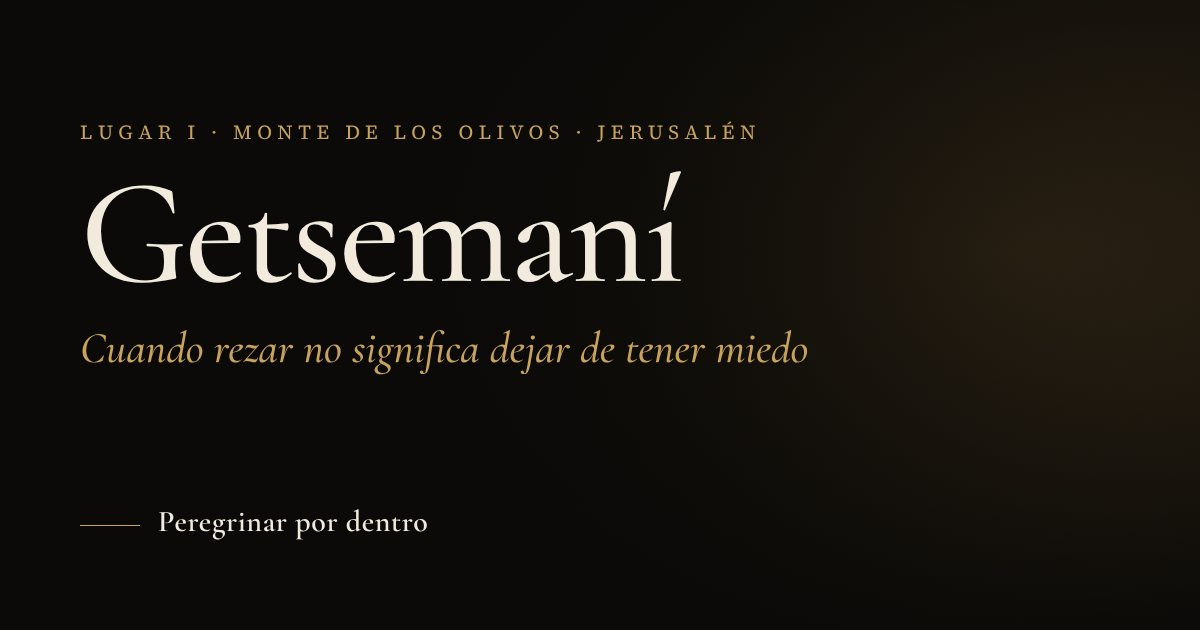
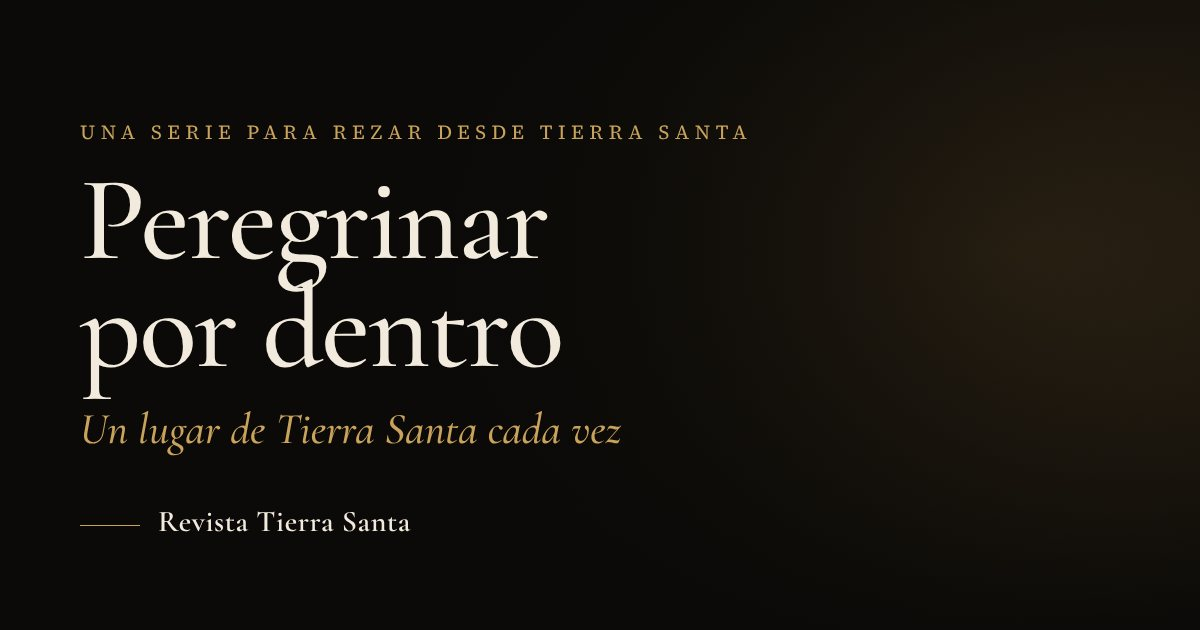
Add files via upload

diff --git a/lugares.js b/lugares.js
@@ -9,7 +9,8 @@
 //          (Google Maps u OpenStreetMap → clic derecho sobre el lugar → copiar las dos cifras).
 // cita:    referencia bíblica de cada apartado (sale en versalitas bajo el título).
 // IMÁGENES: van en img/<id>/ con estos nombres (los mismos que los audios):
-//            00 portada · 01…05 apartados · 06 frase final · 07 oración
+//            00 portada · 01, 02… un número por apartado · después, la frase final y la oración
+//            (Getsemaní, 5 apartados: 06 frase, 07 oración · Emaús, 6 apartados: 07 frase, 08 oración)
 //          00.webp (horizontal, 16:9) y, si quieres, 00-movil.webp (vertical, 9:16).
 // imagenes: (opcional) ajuste de cada imagen:
 //            foco   qué punto se mantiene a la vista al recortar y hacia dónde se acerca ('50% 50%' = centro)
@@ -95,5 +96,93 @@ window.LUGARES = [
 
 ¿Has rezado alguna vez y seguías preocupado?
 Te invito a leer esta breve reflexión desde el huerto de los Olivos.`
+  },
+  {
+    id: 'emaus',
+    numero: 2,
+    nombre: 'Emaús',
+    titulo: 'Cuando te cuesta reconocer que Dios camina contigo',
+    entradilla: 'Hay días en los que seguimos caminando, pero hemos perdido la ilusión.',
+    ubicacion: 'El Qubeibeh · Camino de Jerusalén',
+    coord: [31.8439, 35.1353],
+    secciones: [
+      {
+        id: 'ilusion',
+        cita: 'Lc 24,21',
+        parrafos: [
+          'Habías puesto mucho cariño en algo. Una relación, un proyecto, una tarea en la parroquia, una esperanza para tu familia. Pensabas que las cosas acabarían de otra manera.',
+          'Y ahora te sorprendes diciendo: «Yo esperaba…».',
+          'Así comienza también el camino interior de los discípulos de Emaús.'
+        ]
+      },
+      {
+        id: 'camino',
+        cita: 'Lc 24,13-35',
+        titulo: 'Un camino marcado por la decepción',
+        parrafos: [
+          'El Evangelio de Lucas cuenta que dos discípulos se alejaban de Jerusalén después de la muerte de Jesús. Mientras caminaban, hablaban de lo sucedido. Jesús se acercó y comenzó a caminar con ellos, pero no lo reconocieron.',
+          'Él les preguntó de qué hablaban. Y ellos pudieron expresar su tristeza y aquella esperanza que parecía haberse roto: habían esperado que Jesús liberara a Israel (Lc 24,13-35).',
+          'A veces, también nosotros miramos nuestra vida desde lo que no llegó a ser.'
+        ]
+      },
+      {
+        id: 'se-acerca',
+        cita: 'Lc 24,15-16',
+        titulo: 'Jesús se acerca antes de que lo reconozcan',
+        parrafos: [
+          'Hay un detalle que puede ayudarnos mucho: Jesús ya caminaba con ellos cuando todavía eran incapaces de reconocerlo.',
+          'Podemos contemplar esa escena cuando sentimos a Dios lejos. Nuestra dificultad para percibir su presencia no tiene por qué ser la última palabra sobre nuestra relación con él.',
+          'Hay etapas en las que rezamos sin entusiasmo, vamos a misa con el corazón cansado o seguimos ayudando a los demás sin encontrar consuelo. Podemos llevar también ese cansancio a la oración.',
+          'El camino de Emaús nos invita a dejar abierta una posibilidad: quizá todavía no hemos comprendido todo lo que está sucediendo.'
+        ]
+      },
+      {
+        id: 'escucha',
+        cita: 'Lc 24,17-27',
+        titulo: 'Dios también escucha nuestras decepciones',
+        parrafos: [
+          'Jesús deja que los discípulos cuenten lo que llevan dentro. Después les ayuda a comprender las Escrituras y a mirar su historia desde una luz nueva.',
+          'También nosotros necesitamos ese espacio para hablar con sinceridad.',
+          'Podemos decirle a Dios: «Yo esperaba otra cosa». Esperaba que aquella persona mejorara. Que mi familia estuviera más unida. Que mi esfuerzo diera fruto. Que creer fuera más fácil.',
+          'Nombrar una decepción puede ser el comienzo de una oración sincera.'
+        ]
+      },
+      {
+        id: 'mesa',
+        cita: 'Lc 24,28-35',
+        titulo: 'Una mesa en medio del camino',
+        parrafos: [
+          'Al llegar a la aldea, los discípulos invitan a Jesús a quedarse. Cuando se sienta con ellos, toma el pan, pronuncia la bendición, lo parte y se lo da. Entonces lo reconocen.',
+          'La escena tiene una resonancia especial para nuestra vida eucarística: nos invita a acercarnos a la mesa del Señor con nuestra historia real, con lo que entendemos y con lo que todavía nos cuesta aceptar.',
+          'Después del encuentro, los discípulos regresan a Jerusalén. Tienen algo que compartir. El camino que habían recorrido tristes se convierte en un camino de vuelta hacia los demás.'
+        ]
+      },
+      {
+        id: 'vida-emaus',
+        cita: 'Lc 24,29',
+        titulo: 'Llevar Emaús a nuestra vida',
+        parrafos: [
+          'Quizá hoy necesites hablar con alguien que sepa escucharte. Leer despacio este Evangelio. Acercarte a la Eucaristía con una decepción que llevas guardada desde hace tiempo.',
+          'No hace falta fingir entusiasmo. Puedes empezar con una petición sencilla: «Señor, quédate conmigo. Ayúdame a reconocer tu presencia».'
+        ]
+      }
+    ],
+    guardar: 'Aunque hoy te cueste reconocerlo, puedes pedirle a Jesús que siga caminando contigo.',
+    // sin musica.mp3 en audio/emaus/ suena la música serena generada en el navegador
+    oracion: [
+      'Señor Jesús,',
+      'tú conoces mis esperanzas y mis decepciones.',
+      'Escucha lo que todavía me cuesta expresar.',
+      'Abre mi corazón a tu Palabra',
+      'y mis ojos a tu presencia.',
+      'Quédate conmigo',
+      'y ayúdame a volver al encuentro de los demás.',
+      'Amén.'
+    ],
+    lectura: { cita: 'Lucas 24,13-35', url: 'https://www.ewtn.com/es/biblia/51-lucas/24' },
+    whatsapp: `Una mirada a Tierra Santa: *el camino de Emaús*
+
+«Yo esperaba que las cosas fueran de otra manera…».
+Te invito a leer esta breve reflexión: Jesús camina con nosotros antes de que lo reconozcamos.`
   }
 ];

diff --git a/app.js b/app.js
@@ -11,7 +11,8 @@ const pedido = new URLSearchParams(location.search).get('l');
 const L = LUGARES.find(x => x.id === pedido) || LUGARES[LUGARES.length - 1];
 const urlLugar = id => `${location.pathname}?l=${encodeURIComponent(id)}`;
 const WEB = 'https://fjpereirag.github.io/peregrinar-por-dentro/';
-const enlaceLugar = id => `${WEB}?l=${encodeURIComponent(id)}`;
+// enlace para compartir: la página corta de cada lugar (getsemani/, emaus/…) trae su propia vista previa para WhatsApp
+const enlaceLugar = id => `${WEB}${encodeURIComponent(id)}/`;
 
 // ---------- texto ----------
 const romano = n => { const t = [[1000,'M'],[900,'CM'],[500,'D'],[400,'CD'],[100,'C'],[90,'XC'],[50,'L'],[40,'XL'],[10,'X'],[9,'IX'],[5,'V'],[4,'IV'],[1,'I']]; let r = ''; for (const [v, l] of t) while (n >= v) { r += l; n -= v; } return r; };
@@ -51,6 +52,10 @@ const plegar = boton => {
   scrollBy({ top: tarjeta.getBoundingClientRect().bottom - antes, behavior: 'instant' });
 };
 document.addEventListener('click', e => { const b = e.target.closest('.plegar'); if (b) plegar(b); });
+// las imágenes de la frase y la oración van después de los apartados (Getsemaní: 06 y 07; Emaús: 07 y 08)
+const dos = n => String(n).padStart(2, '0'), nSec = L.secciones.length;
+$('#guardar').dataset.vista = dos(nSec + 1);
+['#oracion', '#compartir', '#seguir'].forEach(q => { $(q).dataset.vista = dos(nSec + 2); });
 $('#frase').textContent = L.guardar;
 $('#versos').innerHTML = L.oracion.map(esc).join('<br>');
 $('#lectura').href = L.lectura.url;
@@ -94,7 +99,7 @@ document.addEventListener('click', e => {
 
 // ---------- escena: una imagen por apartado, con movimiento de cine lento ----------
 // Imágenes en img/<lugar>/<clave>.webp (horizontal) y, opcional, <clave>-movil.webp (vertical).
-// Claves: 00 portada · 01…05 apartados · 06 frase · 07 oración.
+// Claves: 00 portada · 01… un número por apartado · después, la frase y la oración.
 const CLAVES = ['00', ...L.secciones.map((_, i) => String(i + 1).padStart(2, '0')), String(L.secciones.length + 1).padStart(2, '0'), String(L.secciones.length + 2).padStart(2, '0')];
 const ajustes = L.imagenes || {};
 const escena = $('#escena');

diff --git a/index.html b/index.html
@@ -4,14 +4,14 @@
 <meta charset="utf-8">
 <meta name="viewport" content="width=device-width, initial-scale=1, viewport-fit=cover">
 <title>Peregrinar por dentro</title>
-<meta name="description" content="Una serie para rezar desde los lugares de Tierra Santa. Hoy: Getsemaní, cuando rezar no significa dejar de tener miedo.">
+<meta name="description" content="Una serie para rezar desde los lugares de Tierra Santa, un lugar cada vez.">
 <meta name="theme-color" content="#0B0A08">
 <link rel="canonical" href="https://fjpereirag.github.io/peregrinar-por-dentro/">
 <meta property="og:type" content="website">
 <meta property="og:locale" content="es_ES">
 <meta property="og:site_name" content="Peregrinar por dentro">
-<meta property="og:title" content="Getsemaní · Peregrinar por dentro">
-<meta property="og:description" content="Cuando rezar no significa dejar de tener miedo. Una mirada a Tierra Santa para rezar desde lo que vivimos.">
+<meta property="og:title" content="Peregrinar por dentro · Tierra Santa">
+<meta property="og:description" content="Una mirada a Tierra Santa para rezar desde lo que vivimos. Un lugar cada vez.">
 <meta property="og:url" content="https://fjpereirag.github.io/peregrinar-por-dentro/">
 <meta property="og:image" content="https://fjpereirag.github.io/peregrinar-por-dentro/og.jpg">
 <meta property="og:image:width" content="1200">
@@ -21,7 +21,7 @@
 <link rel="preconnect" href="https://fonts.googleapis.com">
 <link rel="preconnect" href="https://fonts.gstatic.com" crossorigin>
 <link href="https://fonts.googleapis.com/css2?family=Cormorant+Garamond:ital,wght@0,500;0,600;1,500&family=Source+Serif+4:ital,opsz,wght@0,8..60,400;0,8..60,600;1,8..60,400&display=swap" rel="stylesheet">
-<link rel="stylesheet" href="estilo.css?v=16">
+<link rel="stylesheet" href="estilo.css?v=17">
 </head>
 <body>
 <a class="salto" href="#reflexion">Saltar a la reflexión</a>
@@ -136,8 +136,8 @@
 
 
 
-<script src="lugares.js?v=10"></script>
+<script src="lugares.js?v=11"></script>
 <script src="voz.js?v=2"></script>
-<script type="module" src="app.js?v=21"></script>
+<script type="module" src="app.js?v=22"></script>
 </body>
 </html>

diff --git a/estilo.css b/estilo.css
@@ -224,6 +224,7 @@ main{position:relative;z-index:3}
   .compartir{padding-bottom:var(--space-6)}
   .compartir-in{padding:var(--space-3)}
   .situacion{top:5.2rem;bottom:auto;right:var(--gutter);width:5.6rem;padding:.4rem}
+  .portada-in .antetitulo{padding-right:6.4rem}
   .situacion p{display:none}
   .situacion .sit-rotulo{display:none}
 }

diff --git a/README.md b/README.md
@@ -4,7 +4,10 @@ Una serie para rezar desde los lugares de Tierra Santa.
 Cada lugar se recorre con imágenes creadas con IA, una por apartado, con movimiento de cine lento, y la reflexión al ritmo del scroll.
 
 - Web: https://fjpereirag.github.io/peregrinar-por-dentro/
-- Un lugar concreto: `…/peregrinar-por-dentro/?l=getsemani`. Sin `?l=`, se abre el último lugar publicado.
+- Un lugar concreto: `…/peregrinar-por-dentro/?l=emaus`. Sin `?l=`, se abre el último lugar publicado.
+- Enlace para compartir cada lugar: `…/peregrinar-por-dentro/emaus/` o `…/getsemani/`. Es una página corta que da a WhatsApp la vista previa de ese lugar (título e imagen `og-<lugar>.jpg`) y lleva enseguida a la web.
+
+Lugares publicados: **I · Getsemaní** y **II · Emaús** (El Qubeibeh, el santuario franciscano de la Custodia).
 
 ## Archivos
 
@@ -19,7 +22,8 @@ Cada lugar se recorre con imágenes creadas con IA, una por apartado, con movimi
 | `audio/<lugar>/` | (opcional) Voz en MP3 `01.mp3`…`07.mp3` y música de fondo `musica.mp3` |
 | `herramienta-voz/` | Para crear los MP3 de la voz en tu ordenador (`voz-gratis.bat`, gratis) |
 | `logo-revista-tierra-santa.png` | Logotipo de la Revista Tierra Santa (portada, «Sigue peregrinando» y pie) |
-| `favicon.svg`, `og.jpg`, `404.html` | Icono, imagen al compartir el enlace (1200×630) y página de error con el mismo estilo |
+| `favicon.svg`, `og.jpg`, `404.html` | Icono, imagen al compartir la web de la serie (1200×630) y página de error con el mismo estilo |
+| `<lugar>/index.html`, `og-<lugar>.jpg` | Página para compartir cada lugar y su imagen de vista previa |
 | `herramienta-imagenes/` | Prompts para generar las imágenes y conversor a WebP (`preparar-imagenes.bat`) |
 
 ## Añadir un lugar nuevo
@@ -27,8 +31,10 @@ Cada lugar se recorre con imágenes creadas con IA, una por apartado, con movimi
 1. Abre `lugares.js`.
 2. Copia el bloque de Getsemaní entero, desde `{` hasta `},`, y pégalo debajo.
 3. Cambia `id` (sin espacios ni tildes, por ejemplo `belen`), `numero`, los textos, las citas y `coord`. Para sacar las coordenadas, haz clic derecho sobre el lugar en Google Maps o en OpenStreetMap y copia las dos cifras.
-4. Prepara sus imágenes (apartado de abajo).
-5. Sube `lugares.js` y la carpeta `img/<id>` a GitHub.
+4. Prepara sus imágenes (apartado de abajo). Hay una por apartado; después van la frase y la oración. Con 5 apartados son `06` y `07`; con 6, `07` y `08`.
+5. Crea la página para compartir: copia la carpeta `emaus/` con el nombre del `id` nuevo y cambia dentro el nombre, el título, la descripción y `emaus` por el `id`. Hace falta también su imagen `og-<id>.jpg` (1200×630); pídemela y te la preparo.
+6. Para la voz, crea `herramienta-voz/guion-<id>.json` con `generar-voz.html` (o pídemelo) y luego doble clic en `voz-gratis.bat`.
+7. Sube a GitHub `lugares.js`, la carpeta `img/<id>`, la carpeta `<id>/` y `og-<id>.jpg`.
 
 ## Imágenes (creadas con IA)
 
